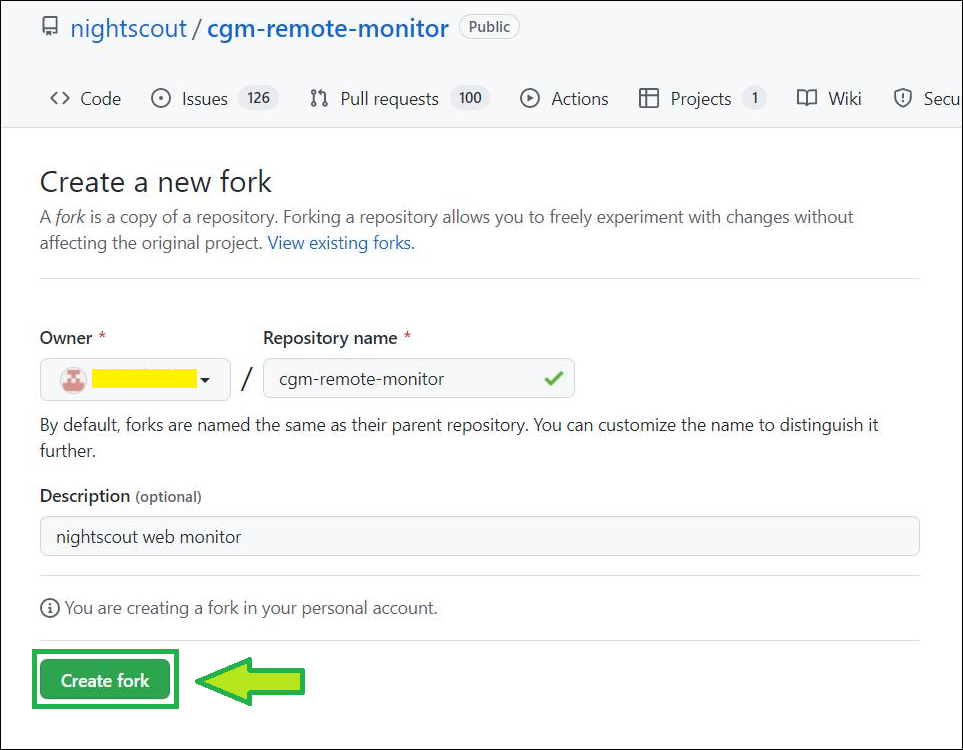
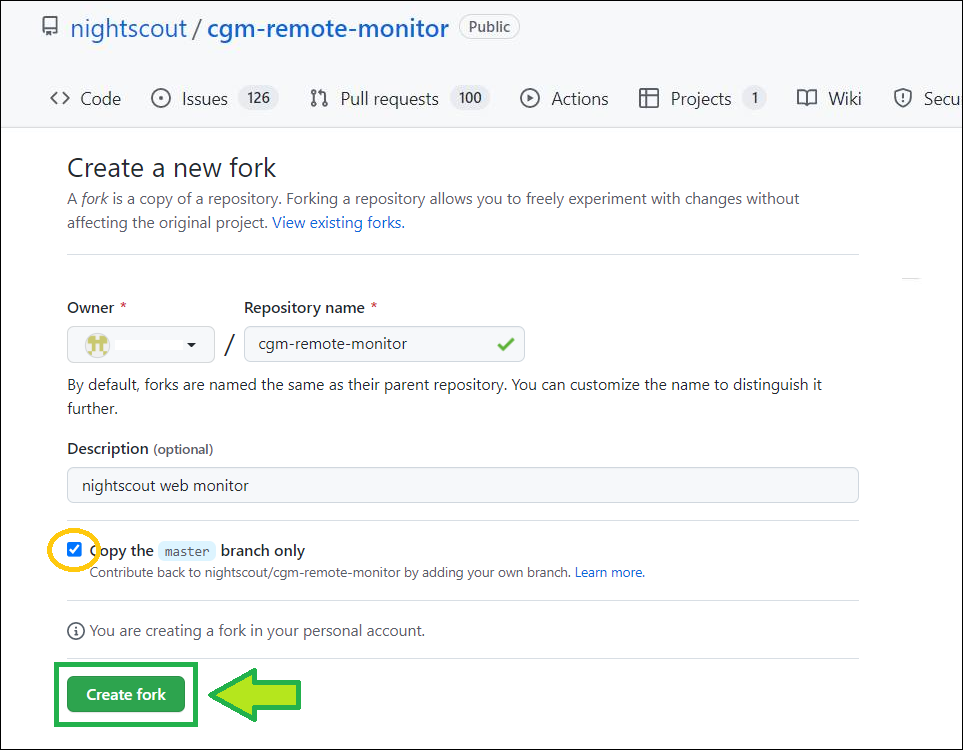
Alt method to deploy in Railway

diff --git a/docs/vendors/railway/NightscoutVariablesRailway.html b/docs/vendors/railway/NightscoutVariablesRailway.html
@@ -250,7 +250,7 @@ function Validate()
   if((e1.length + e2.length + e3.length)<1)
   {
     document.getElementById("result1").innerHTML = "Validation is PASS.";
-    document.getElementById("result3").innerHTML = "Select all text from the box below and copy it. Go back into Railway raw editor, ENV and paste it.";
+    document.getElementById("result3").innerHTML = "Click on the Copy All button below. Go back into Railway raw editor, ENV and paste.";
     CopyAll();
   }
 };
@@ -342,6 +342,18 @@ sLine = "SHOW_PLUGINS=" + document.getElementById("SHOW_PLUGINS").value; sBuffer
   document.getElementById("NSVARS").innerHTML = sBuffer;
 };
 
+function CopyToClipboard() {
+
+  var copyText = document.getElementById("NSVARS");
+
+  copyText.select();
+  copyText.setSelectionRange(0, 99999); // For mobile devices
+
+  navigator.clipboard.writeText(copyText.value);
+
+   alert("Variables copied, now paste them in Railway Raw Editor.");
+}
+
 </script>
 
 </br></br>
@@ -352,6 +364,8 @@ sLine = "SHOW_PLUGINS=" + document.getElementById("SHOW_PLUGINS").value; sBuffer
   <p id="result2"></p>
   <p id="result3"></p>
   
+</br></br>
+<button onclick="CopyToClipboard()">Copy All</button>
 </br></br>
 <textarea id="NSVARS" name="NSVARS" rows="27" cols="150">
 Once validated you will see all Railway Nightscout variables in this box.

diff --git a/docs/vendors/railway/new_user2.md b/docs/vendors/railway/new_user2.md
@@ -1,6 +1,6 @@
 # Railway Nightscout
 
-Method 1: using the Railway button
+Method 2: using the help page
 
 ---
 
@@ -36,14 +36,13 @@ Keep in mind a free M0 MongoDB Atlas database size is limited to 512MB and you w
 
 </br>
 
-### Step 1: Create a GitHub account
+### Step 1: Create a GitHub account and fork `cgm-remote-monitor`
 
 </br>
 
-!!! warning "Already have a GitHub account?"  
-    [Delete the cgm-remote-monitor fork](../../../nightscout/github/#delete-your-own-fork-of-cgm-remote-monitor) from your GitHub (if present) before proceeding.
-
 If you don't have a GitHub account follow [**this link**](../../../nightscout/github/#create-a-github-account) to create one and come back.
+
+Follow this link [**this link**](../../../nightscout/github/#fork-the-nightscout-project) to fork the Nightscout `cgm-remote-monitor` project into GitHub, once done proceed to step 2 below.
 
 </br>
 
@@ -167,226 +166,87 @@ Now that you have **copied** the resulting `MONGODB_URI` string, keep it in a **
 
 </br>
 
-### Step 4: Deploy cgm-remote-monitor
+## Step 4 - Deploy Nightscout in Railway
+
+a) Click on `Create a New project`.
+
+<img src="../img/Railway06.png" style="zoom:80%;" />
+
+If you don't see that, top right, click `+ New Project`.
+
+<img src="../img/RailwayDB01.png" style="zoom:80%;" />
 
 </br>
 
-a) Click on the `Deploy on Railway` button below:
+b) Select `Deploy from GitHub repo`.
 
-[![Deploy on Railway](https://railway.app/button.svg)](https://railway.app/new/template/6v8Ejj)
-
-*Note: this is a temporary template until the community finds a way to get it owned by Nightscout and not only a single user.  
-It doesn't include any referral code.*
+<img src="../img/RailwayM19.png" style="zoom:80%;" />
 
 </br>
 
-b) If you see this screen, select `Connect GitHub to Deploy`.
+c) Select `Configure GitHub App`.
 
-<img src="../img/Railway07a.png" style="zoom:80%;" />
-
-Then select `Authorize Railway App`.
-
-<img src="../img/Railway02.png" style="zoom:80%;" />
+<img src="../img/RailwayM02.png" style="zoom:80%;" />
 
 </br>
 
-c) Click `Configure`
+d) Choose `Only select repositories`, in the `Select repositories` drop-down select your own fork of `cgm-remote-monitor`.  
+Then, at the bottom, click `Install & Authorize`.
 
-<img src="../img/Railway07.png" style="zoom:80%;" />
-
-</br>
-
-d) Click `Install & Authorize`
-
-<img src="../img/Railway08a.png" style="zoom:80%;" />
+<img src="../img/Railway08.png" style="zoom:80%;" />
 
 </br>
 
-e) You will then see this page, scroll down to define the [required variables](../../../nightscout/setup_variables/#required-variables) for creating your Nightscout site.
+e) You should be back to `Deploy from GitHub repo`, select it.
 
-<img src="../img/Railway09.png" style="zoom:80%;" />
-
-</br>
-
-f) Mind if you see this you will need to [delete the`cgm-remote-monitor` fork in GitHub](../../../nightscout/github/#delete-your-own-fork-of-cgm-remote-monitor) and retry `Deploy` from **a)** afterwards.
-
-<img src="../img/Railway17.png" style="zoom:80%;" />
+<img src="../img/RailwayM19.png" style="zoom:80%;" />
 
 </br>
 
-g) Setup your Nightscout core variables.
+f) Now you can select your own GitHub repository.
 
-!!!note "Migrating from Heroku"  
-    If you're migrating your project from Heroku, [display all variables in Heroku](../../heroku/new_user/#editing-config-vars-in-heroku) and copy all those with a value into Railway.  
-    See below how to add variables in Railway but use your Heroku variables values.
-
-`API_SECRET` will be your Nightscout site password, it needs to be at least 12 characters long and you should **NOT use spaces** if you use @ or ! symbols remember you will probably need to express them using [Percent encoding](https://en.wikipedia.org/wiki/Percent-encoding#Percent-encoding_reserved_characters) in your uploader and downloader apps. If you're not sure on how to do this, it is recommended to use only letters (uppercase + lowercase) and digits.
-
-!!!warning "The API_SECRET is the **main password allowing full access to your Nightscout site**. Make sure it's reasonably secure (mix uppercase and lowercase letters, plus digits) and **do no not share it publicly**. If you think you exposed it by mistake, it is recommended that you **change it**."
-
-<img src="../img/Railway10.png" style="zoom:80%;" />
-
-h) At **Step 3** you created your database and came back with a MONGODB_URI string. Time has come to use it here.  
-
-
-<img src="../img/Railway21.png" style="zoom:80%;" />
+<img src="../img/RailwayM03.png" style="zoom:80%;" />
 
 </br>
 
-##### Dexcom Bridge
+g) Select `Add variables`.
 
-i) If you use [Dexcom `bridge`](../../../troubleshoot/dexcom_bridge/) you need to configure these two variables with your Dexcom credentials:
-
-<img src="../img/Railway33.png" style="zoom:80%;" />
-
-<img src="../img/Railway34.png" style="zoom:80%;" />
-
-If you're using Dexcom Share in the US you should put **US**, in **any other case it must be EU**.  
-If you don't see it proposed at this point you'll need to **browse the list below to find it and modify it**.
-
-<img src="../img/Railway36.png" style="zoom:80%;" />
-
-**Remember to add `bridge` at the end of the `enable` variable in the list below.**
-
-!!!info "MOST COMMON ERRORS"
-    The most common error on initial Nightscout setups is that people incorrectly use an old account or an old password. To test your username and password, go to Dexcom's Clarity page (check [here for USA accounts](https://clarity.dexcom.com) and [here for the others](https://clarity.dexcom.eu)) and try logging in to your Dexcom account. If your account info isn't valid, or you don't see any data in your Clarity account... you need to figure out your actual credentials before moving ahead. See [here](../../../troubleshoot/dexcom_bridge/) for troubleshooting tips and information on your Dexcom account.
-
-!!! note "Password"
-    *Some people have had problems with their bridge connecting when their Dexcom passwords are entirely numeric. If you have connection issues in that case, try changing your password to something with a mix of numbers and letters.*
-
-!!! info
-    You need to have at least one follower to use Dexcom Share. See [here](../../../uploader/setup/#dexcom).
+<img src="../img/RailwayM20.png" style="zoom:80%;" />
 
 </br>
 
-j) Many optional variables are already setup for you, open the caret to see them and eventually modify them (**recommended**).
+h) The Nightscout project will deploy in the background, just ignore it: now we need to setup our Nightscout variables.  
+Click on `Raw Editor`.
 
-<img src="../img/Railway15.png" style="zoom:80%;" />
+<img src="../img/RailwayM21b.png" style="zoom:80%;" />
 
-</br>
+The raw editor will open, leave it like this for now.
 
-k) Select the units you’re using in `DISPLAY_UNITS` acceptable choices are `mg/dl` or `mmol/L` (or just `mmol`).
-
-<img src="../img/Railway13.png" style="zoom:80%;" />
-
-</br>
-
-l) You can update the alarms values. See [here](../../../nightscout/setup_variables/#alarms) for the meaning of each one.
-
-<img src="../img/Railway37.png" style="zoom:80%;" />
+<img src="../img/RailwayM21c.png" style="zoom:80%;" />
 
 </br>
 
-m) If you want to ensure that ONLY someone with permission to view your site (e.g., a token or the `API_SECRET`) is able to view the data, you should configure the [`AUTH_DEFAULT_ROLES`](../setup_variables/#auth_default_roles) variable in as `denied`.  
-If you want your site to be visible to anybody leave it as `readable`.
+i) Open the [**helper page**](../NightscoutVariablesRailway.html) in a new browser tab.
 
-<img src="../img/Railway11.png" style="zoom:80%;" />
+File all necessary fields, click on the Validate button at the bottom of the form, if no error is seen you will have all variables displayed in the text box at the bottom, click on the Copy All button.
 
-</br>
-
-n) A common list of [`enable`](../../../nightscout/setup_variables/#enable) variables is predefined, you can change them if you know why.  
-It's recommended that you leave them like this for now.
-
-Just remember to add `bridge` at the end if your get your BG values from Dexcom Share.
-
-<img src="../img/Railway14.png" style="zoom:80%;" />
+<img src="../img/Railway42.png" style="zoom:80%;" />
 
 </br>
 
-o) You can modify the variables values, check the [documentation](../../../nightscout/setup_variables) for the meaning of each one.  
-Make sure you don't make typo errors, some will crash your site (like for example `LANGUAGE` value in upercase).
+j)  Return to the Railway Raw editor. Paste the result. Click `Update Variables`.
+
+<img src="../img/Railway43.png" style="zoom:80%;" />
+
+Your site will redeploy, wait until redeploy completes.
 
 </br>
 
-p) You can now `Deploy`, and wait until it is complete.
+Congratulations. You created your new Nightscout site with Railway.
 
-<img src="../img/Railway16.png" style="zoom:80%;" />
-
-If you see this message, deploy didn't complete, let's fix this manually.
-
-<img src="../img/Railway41.png" style="zoom:80%;" />
-
-p1)  Select `Settings` and scroll down to `Service`.  
-Disconnect your `Source Repo` with the cross at the end of the line.
-
-<img src="../../../vendors/railway/img/RailwayT01.png" style="zoom:80%;" />
-
-p2) Confirm `Disconnect`.
-
-<img src="../../../vendors/railway/img/RailwayT02.png" style="zoom:80%;" />
-
-</br>
-
-p3) Select `Connect Repo`.
-
-<img src="../../../vendors/railway/img/RailwayT03.png" style="zoom:80%;" />
-
-You should be able to select your GitHub `cgm-remote-monitor` repository.
-
-<img src="../../../vendors/railway/img/RailwayM03.png" style="zoom:80%;" />
-
-Your Railway app will now automatically deploy.
-
-</br>
-
-q) You can see your new Nightscout site name in the deployment tab of your project. Click on the name to open Nightscout.  
-Click on the link to open it.
-
-!!!info "Change Railway site name"  
-    You should [change your Railway site name](#change-your-railway-nightscout-site-name) now in order to make it easier to remember. **Recommended**.  
-    You can also do this later, before setting your uploaders.
+Click the site name to open Nightscout.
 
 <img src="../img/RailwayM14.png" style="zoom:80%;" />
-
-</br>
-
-r) Your Nightscout site should open and direct you to a new profile creation.
-
-<img src="../../../nightscout/img/NewNS50.png" style="zoom:100%;" />
-
-</br>
-
-s) Setup your `Time zone` and eventually all other fields. Do not leave any fields empty. If you don't know which value to use, just use the default value. You can change these values later at any time.
-
-<img src="../../../nightscout/img/NewNS44.png" style="zoom:80%;" />
-
-</br>
-
-t) Browse down to `Authentication status` and click `Authenticate`. Enter your API secret. Click `Update`.
-
-<img src="../../../nightscout/img/NewNS45.png" style="zoom:80%;" />
-
-</br>
-
-u) Click `Save`.
-
-<img src="../../../nightscout/img/NewNS46.png" style="zoom:80%;" />
-
-</br>
-
-v) If the following pop-up shows up click `OK`, and check status (upper right of the window).
-
-<img src="../../../nightscout/img/NewNS47.png" style="zoom:80%;" />
-
-</br>
-
-w) If you need to modify your profile after this, authenticate with the lock icon (top right of the page): enter your API secret. Then click on the hamburger menu and select `Profile Editor`.
-
-<img src="../../../nightscout/img/NewNS43.png" style="zoom:80%;" />
-
-</br>
-
-!!!warning "Privacy warning"
-    Anyone with access to the URL of your Nightscout site, can view your BG and run reports of your data. It it strongly recommended that you enable [security](../../../nightscout/security) to your site once you're done with the setup.  
-
-</br>
-
-x) Dexcom Share users should see data flowing in after some minutes.
-xDrip+ users (including Medtronic [CareLink followers](../../../uploader/uploaders/#medtronic)) should setup the uploader as shown [**here**](../../../uploader/setup/#xdrip).
-xDrip4iOS users [here](https://xdrip4ios.readthedocs.io/en/latest/connect/cgm/#nightscout-upload).
-[AAPS](https://androidaps.readthedocs.io/en/latest/Configuration/Preferences.html#nsclient) and [Loop](https://loopkit.github.io/loopdocs/operation/loop-settings/services/): consult the relative documentation.
-
-<img src="../../../nightscout/img/NewNS48.png" style="zoom:80%;" />
 
 </br>
 
@@ -413,6 +273,10 @@ You can change the site name but need to keep the `.up.railway.app` domain.
 </br>
 
 Change all your [uploaders](../../../uploader/setup/) and [follower](../../../nightscout/downloaders/) devices to reflect the new URL once verified correct functioning of your Nightscout site.
+
+</br>
+
+------
 
 </br>
 
@@ -464,6 +328,10 @@ You have completed database restore.
 
 If you're migrating your database, make sure to [update](#editing-variables-in-railway) the `MONGODB_URI` variable string to the new URI as copied in **b)3.**.  
 Refresh your Nightscout browser once deployment completes view to verify data has been imported correctly.
+
+</br>
+
+------
 
 </br>
 

diff --git a/docs/nightscout/github.md b/docs/nightscout/github.md
@@ -70,6 +70,8 @@ Confirm with `Create fork`
 
 <img src="../../../nightscout/img/NewNS51.png" style="zoom:70%;" />
 
+***Note:*** *in orange in the picture above, if you already know you'll want to deploy branches different from the latest `master` release, uncheck this box.*
+
 </br>
 
 c) Wait for a moment
